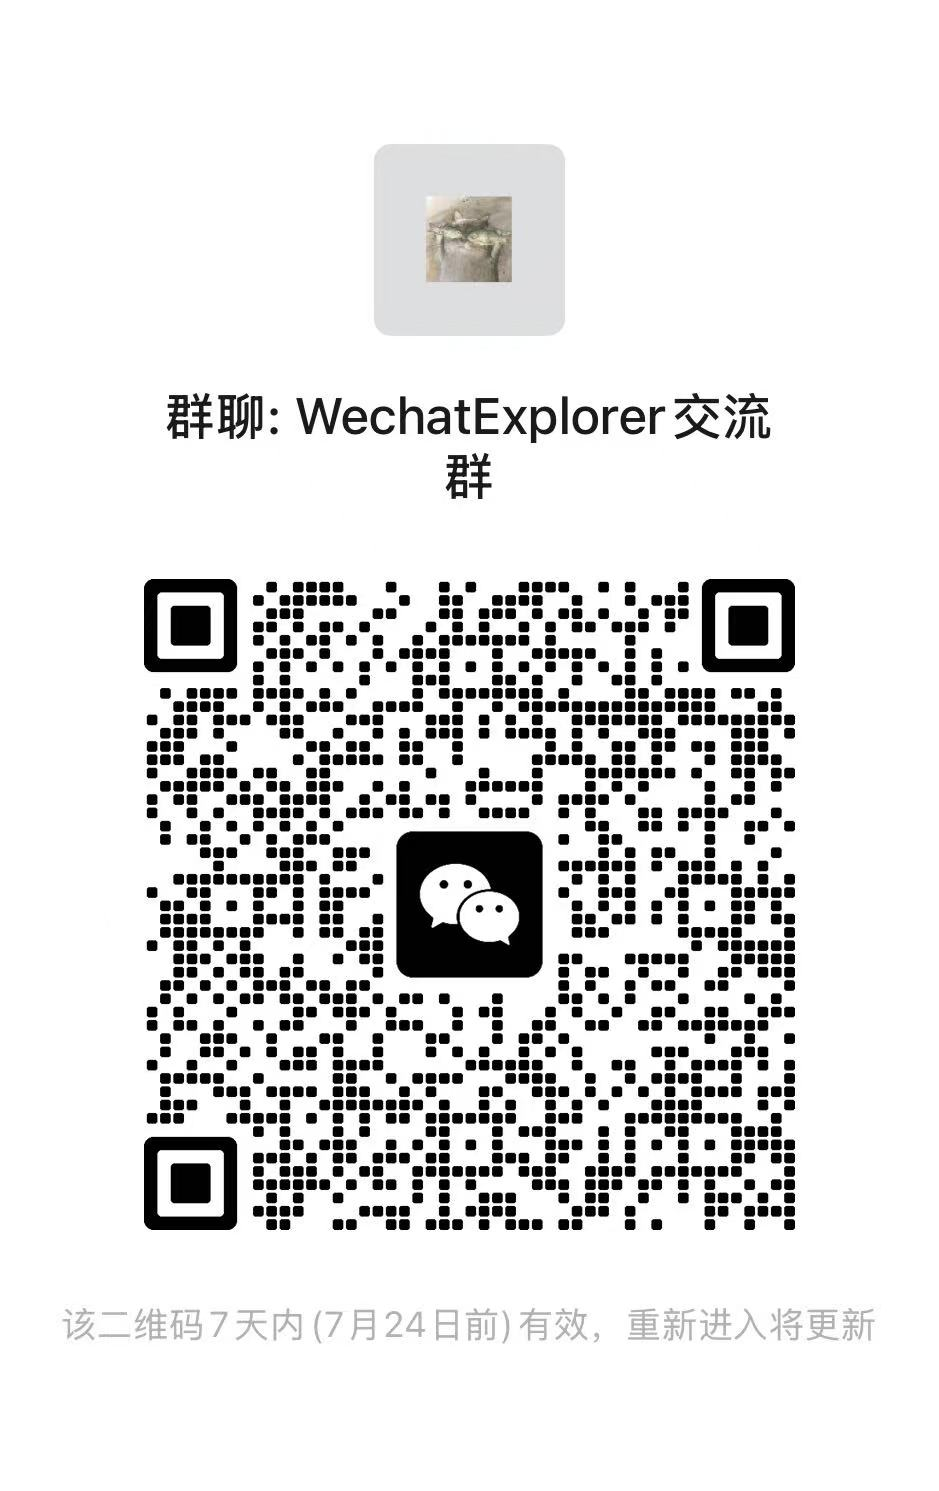
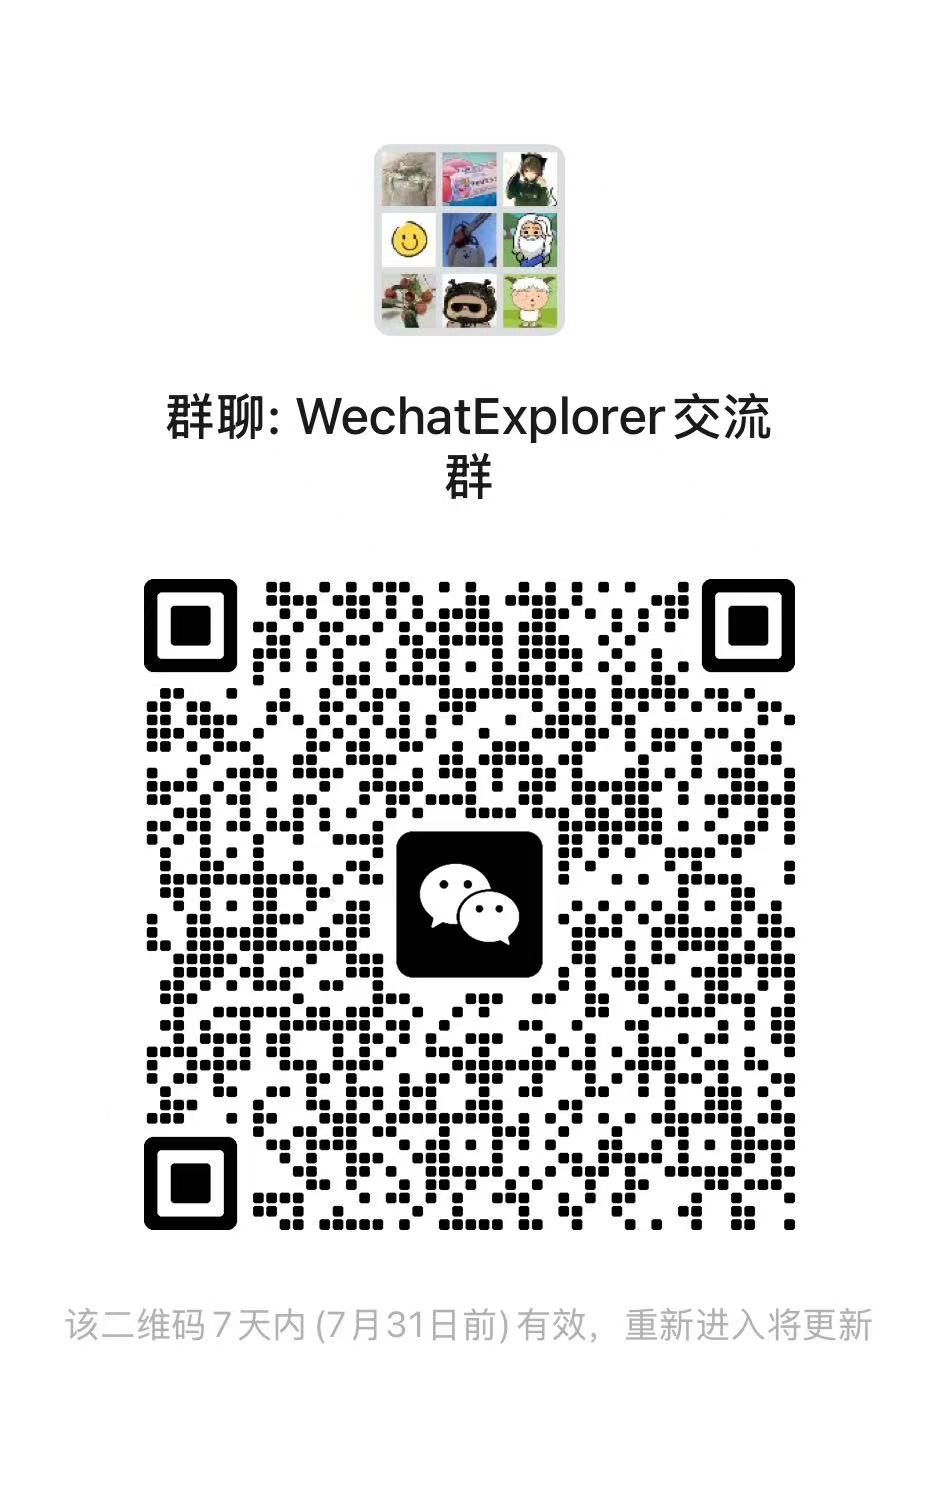
docs: 修改二维码

diff --git a/README.md b/README.md
@@ -9,7 +9,7 @@ macOS / Windows 微信聊天记录查看，AI 一键生成群聊总结。
 
 在微信 4.0 数据库解析、解密思路上，项目参考了 [WeFlow](https://github.com/hicccc77/WeFlow) 等开源项目的实现方式；此项目围绕我自己的使用场景做的定制化工具，重点放在本地聊天记录查看、群聊总结和个人工作流集成上。
 
-> 当前版本：`v2.1.2`。macOS 支持相对稳定；Windows 已初步支持微信 4.0 数据库连接、自动获取密钥和聊天记录查看，仍在持续兼容不同微信版本与本地目录结构。
+> 当前版本：`v2.1.4`。macOS 支持相对稳定；Windows 已初步支持微信 4.0 数据库连接、自动获取密钥和聊天记录查看，仍在持续兼容不同微信版本与本地目录结构。
 
 ## ✨ 功能特性
 
